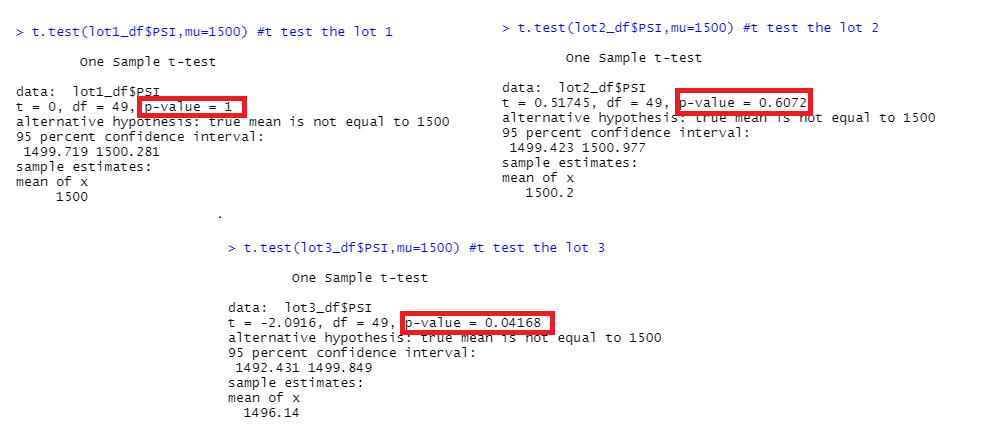
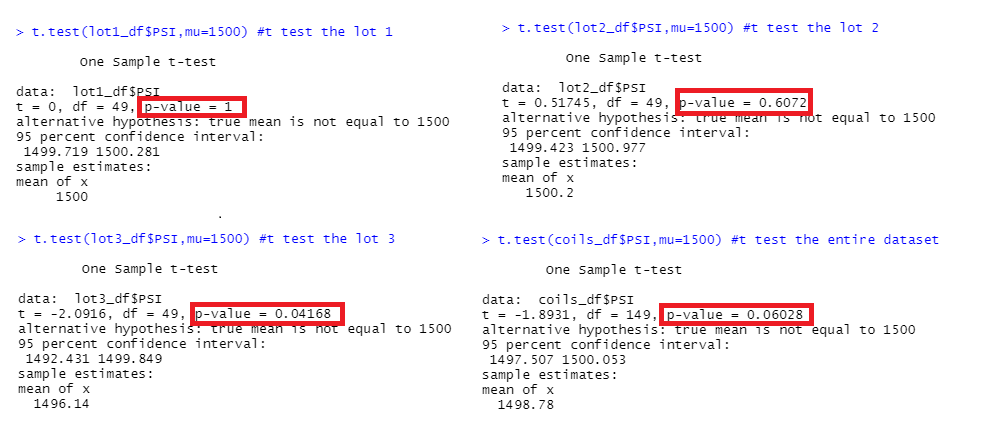
deliverable 3 update 1

diff --git a/README.md b/README.md
@@ -45,7 +45,7 @@ the lot summary indicates that lot 3 has a variance greater than 100 psi^2. The 
 ## T-Tests on Suspension Coils
 It is desired to perform t-tests to determine if all manufacturing lots and each lot individually are statistically different from the population mean of 1,500 pounds per square inch.
 
-Using the t.test function in R with a population mean of 1500 we can see from the image below that only lot 3 is statistically different with a p-value less than 0.05.
+Using the t.test function in R with a population mean of 1500 we can see from the image below that only lot 3 is statistically different with a p-value less than 0.05 while the overall and lots 1 and 2 pass the t-test.
 
 ![alt text](https://github.com/jj2773/MechaCar_Statistical_Analysis/blob/main/deliverable3_ttest_summary.png)
 
